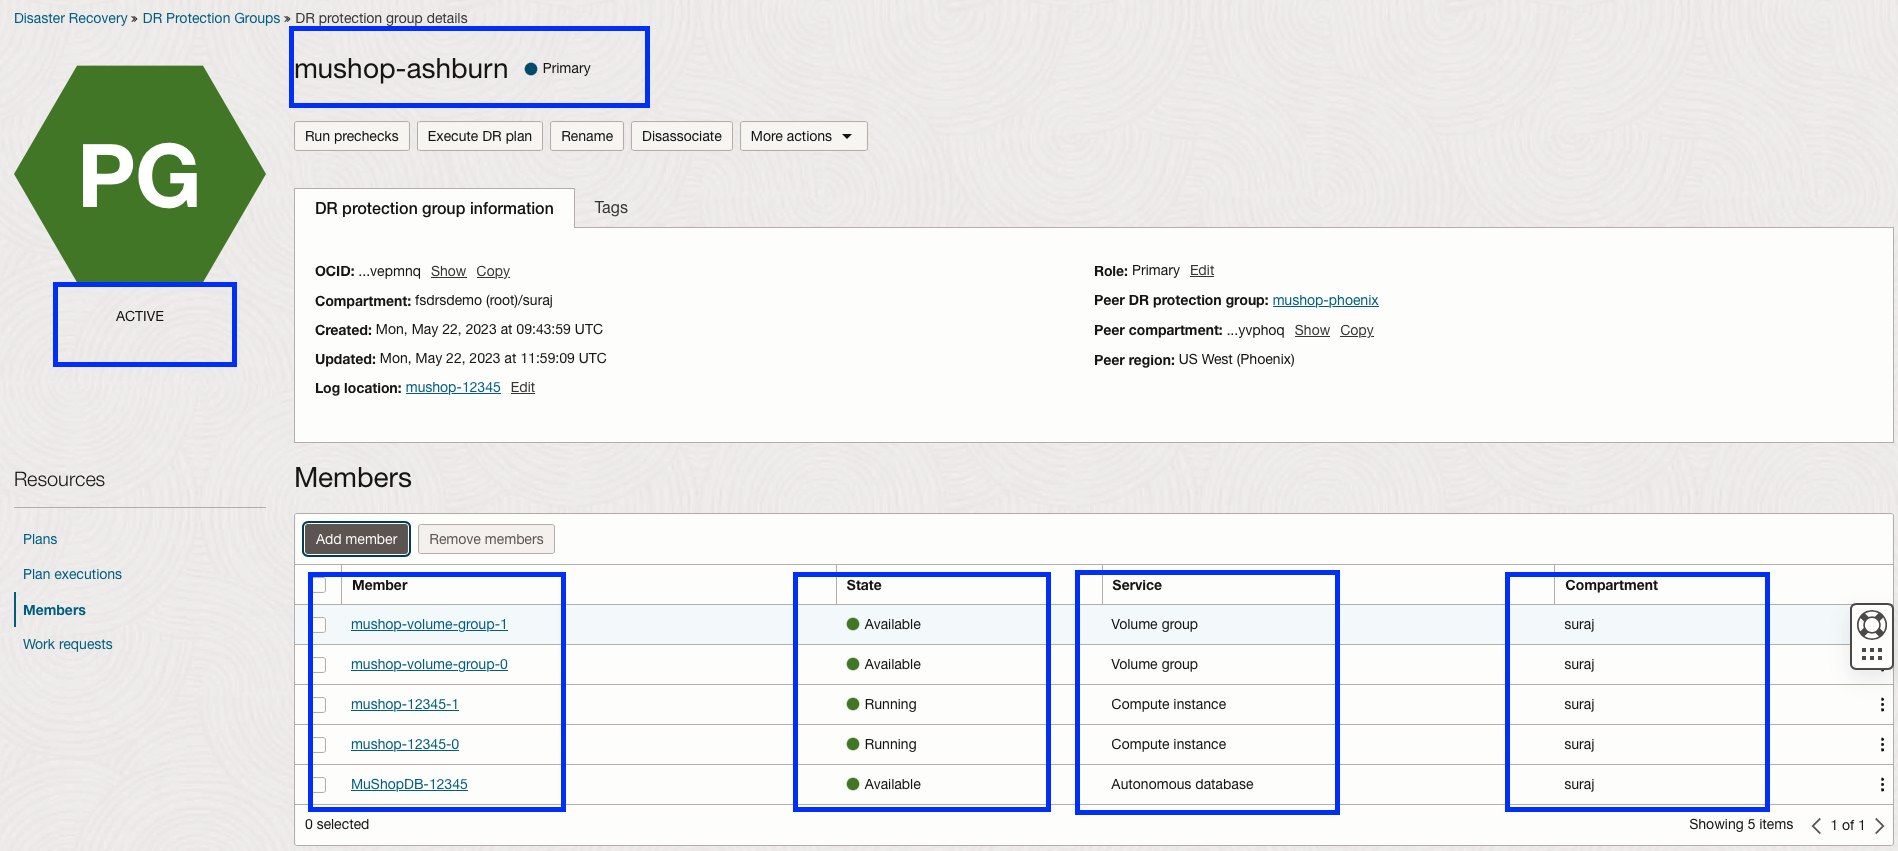
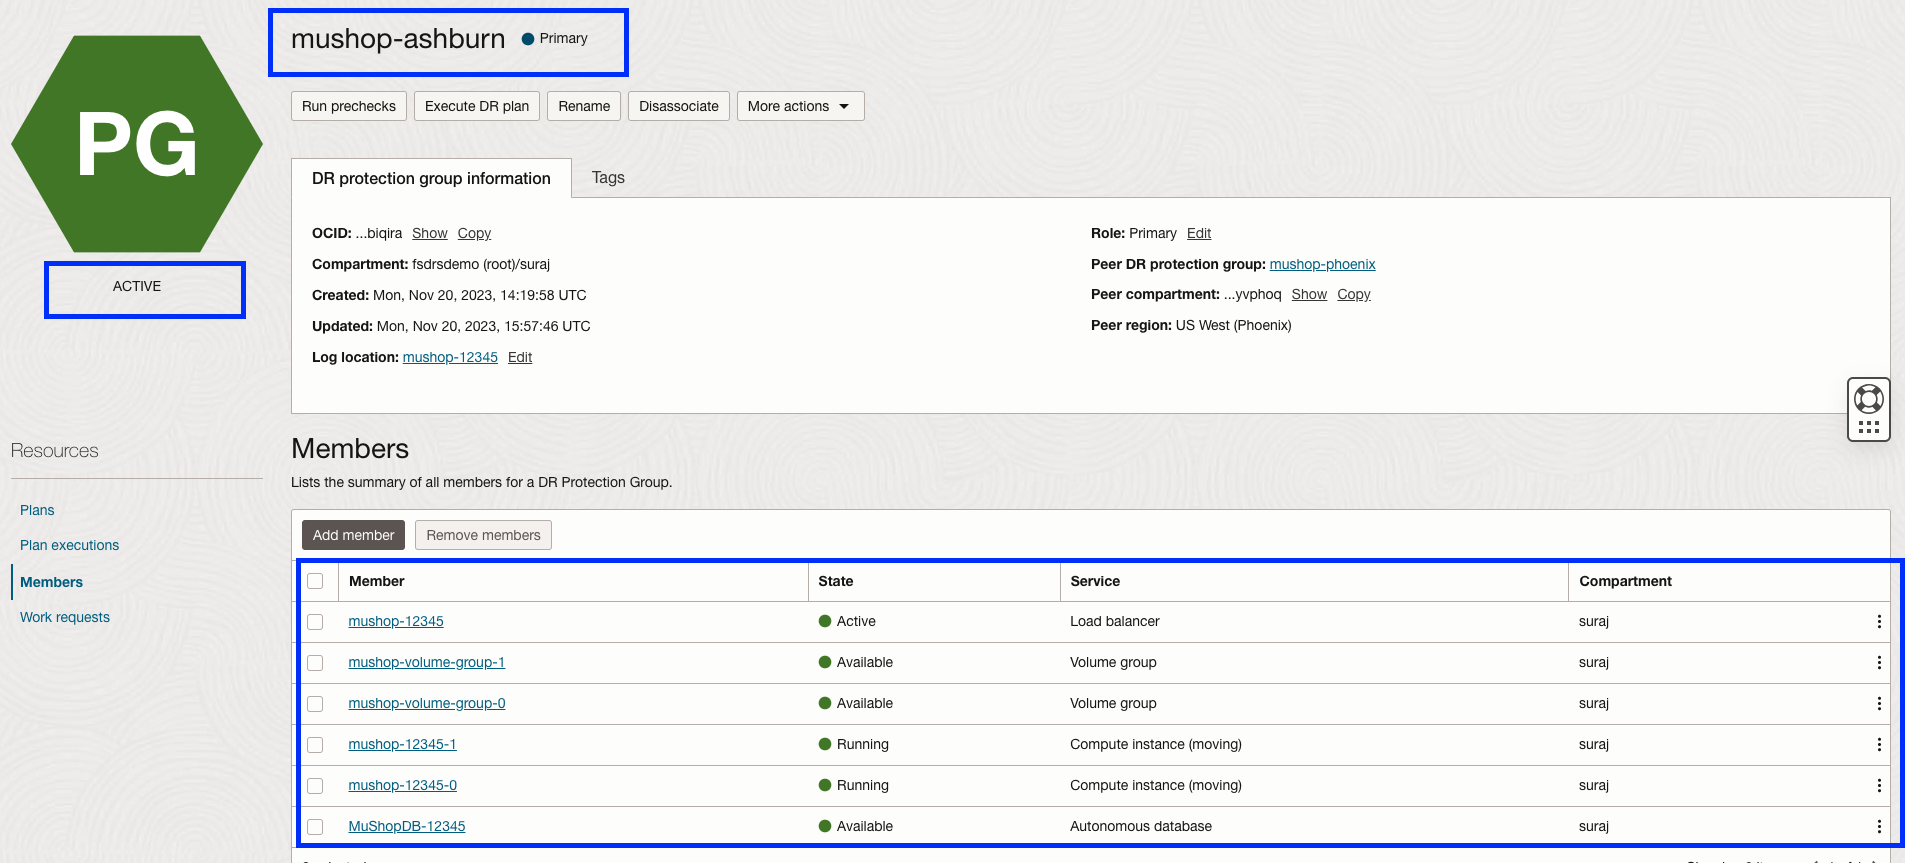
New features changes
New features changes

diff --git a/oci-fullstackdrs/drpg-members/drpg-members.md b/oci-fullstackdrs/drpg-members/drpg-members.md
@@ -8,8 +8,8 @@ Estimated Time: 15 Minutes
 
 ### Objectives
 
-- Add members to Ashburn DRPG (Primary)- ATP(Primary DB),MuShop Compute VM's(node-0 and node-1),two volume groups( Boot volumes of MuShop Compute VM's)
-- Add members to Phoenix DRPG (Standby)-ATP(Standby DB)
+- Add members to Ashburn DRPG (Primary)- ATP(Primary DB),MuShop Compute VM's(node-0 and node-1),two volume groups( Boot volumes of MuShop Compute VM's), Load Balancer
+- Add members to Phoenix DRPG (Standby)-ATP(Standby DB), Load Balancer
 
 As part of the MuShop architecture,Virtual machines are deployed as Cold VM or Pilot light pattern.Full Stack DR will create the MuShop VM's in the phoenix region during the Switchover.
 
@@ -27,7 +27,7 @@ As part of the MuShop architecture,Virtual machines are deployed as Cold VM or P
 
     ![drpg landing page](./images/drpg-status-ashburn-new.png)
 
-4.  In the Ashburn region DRPG page, add the members required in the **mushop-ashburn** DRPG. *We will add ATP Primary Database, two mushop compute VMs, and two-volume groups for the boot volumes of mushop compute VMs*. Let's add those details.
+4.  In the Ashburn region DRPG page, add the members required in the **mushop-ashburn** DRPG. *We will add ATP Primary Database, two mushop compute VMs,two-volume groups for the boot volumes of mushop compute VMs and Load Balancer*. Let's add those details.
 
 5.  Add ATP Primary Database. 
 
@@ -36,7 +36,7 @@ As part of the MuShop architecture,Virtual machines are deployed as Cold VM or P
     ![drpg add member](./images/ashburn-add-member-new.png)
 
     It will show various resource types and select **Autonomous Database**
-    ![drpg resource type](./images/ashburn-resource-type-new.png)
+    ![drpg resource type](./images/ashburn-resource-new-members.png)
 
     Select the Database in your compartment; it will have MushopDB-XXXXX. Verify it and hit add. Make sure to check the box **"I understand that all existing plans will be deleted"**
 
@@ -51,7 +51,7 @@ As part of the MuShop architecture,Virtual machines are deployed as Cold VM or P
 6.  Add first Compute instance **mushop-xxxxx-0** as member,select **mushop-ashburn** DRPG, navigate to **Members** in the *Resources* section, and hit **Add Member**
 
     It will show various resource types and select **Compute**
-    ![drpg resource type](./images/ashburn-resource-type-new1.png)
+    ![drpg resource type](./images/ashburn-resource-new-members.png)
 
     - Resource Type as **Compute**
     - Make sure to check the box **"I understand that all existing plans will be deleted"**
@@ -79,7 +79,7 @@ As part of the MuShop architecture,Virtual machines are deployed as Cold VM or P
 7.  Add second Compute instance **mushop-xxxxx-1** as member,select **mushop-ashburn** DRPG, navigate to **Members** in the *Resources* section, and hit **Add Member**
 
     It will show various resource types and select **Compute**
-    ![drpg resource type](./images/ashburn-resource-type-new1.png)
+    ![drpg resource type](./images/ashburn-resource-new-members.png)
 
     - Resource Type as **Compute**
     - Make sure to check the box **"I understand that all existing plans will be deleted"**
@@ -109,7 +109,7 @@ As part of the MuShop architecture,Virtual machines are deployed as Cold VM or P
     Select **mushop-ashburn** DRPG, navigate to **Members** in the *Resources* section, and hit **Add Member**
 
     It will show various resource types and select **Volume group**
-    ![drpg resource type](./images/ashburn-resource-type-new1.png)
+    ![drpg resource type](./images/ashburn-resource-new-members.png)
 
     - Resource Type as Volume Group
     - Make sure to check the box **"I understand that all existing plans will be deleted"**
@@ -129,7 +129,7 @@ As part of the MuShop architecture,Virtual machines are deployed as Cold VM or P
     Select **mushop-ashburn** DRPG, navigate to **Members** in the *Resources* section, and hit **Add Member**
 
     It will show various resource types and select **Volume group**
-    ![drpg resource type](./images/ashburn-resource-type-new1.png)
+    ![drpg resource type](./images/ashburn-resource-new-members.png)
 
     - Resource Type as Volume Group
     - Make sure to check the box **"I understand that all existing plans will be deleted"**
@@ -144,14 +144,35 @@ As part of the MuShop architecture,Virtual machines are deployed as Cold VM or P
 
     Navigate back to the DR Protection group page; the status of DRPG should be active.
 
-10. We have added all the required members in the **mushop-ashburn** DRPG. It should show ATP Database, 2 Compute Instances, and 2 Volume groups.DRPG status should show as active.
+10. Add Load Balancer as member.
+
+    It will show various resource types and select **Load Balancer**
+    ![drpg resource type](./images/ashburn-resource-new-members.png)
+     
+    - Resource Type as Load Balancer
+    - Make sure to check the box **"I understand that all existing plans will be deleted"**
+    - Select Load balancer **mushop-xxxxx**
+    - Select Destination load balancer **mushop-xxxxx**
+    - Select Source backend set **mushop-xxxxx**
+    - Select Destination backend set **mushop-xxxxx**
+    - Verify and add
+
+    ![drpg add lbr](./images/ashburn-lbr-add-new.png)
+
+    **mushop-ashburn** DRPG status will change to updating; wait for a few seconds. You should see that the Load Balancer is added as a member. Refresh the DRPG page if required. You can monitor the request's status in the **Work requests** section under Resources.
+
+    ![drpg lbr added](./images/ashburn-lbr-added-new.png)
+
+    Navigate back to the DR Protection group page; the status of DRPG should be active. In case if you don't see the Load Balancer member, add it again.
+
+10. We have added all the required members in the **mushop-ashburn** DRPG. It should show a ATP Database, two Compute Instances, two Volume groups and a Load Balancer.DRPG status should show as active.
 
     ![drpg members ashburn](./images/ashburn-allmembers-new.png)
 
 
 ## Task 2: Add members to Phoenix DRPG (Standby)
 
-1.  Login into OCI Console with your provided Credentials. The Standby region should be **Pheonix**.
+1.  Login into OCI Console with your provided Credentials. The Standby region should be **Phoenix**.
 
     ![oci console phoenix](./images/phoenix-region-new.png)
 
@@ -163,14 +184,14 @@ As part of the MuShop architecture,Virtual machines are deployed as Cold VM or P
 
     ![drpg landing page](./images/drpg-status-phoenix-new.png)
 
-4.  In the Phoenix region DRPG page, add the members required in the **mushop-phoenix** DRPG. *We will be adding only ATP Standby Database*. Let's add those details.  **We don't need to add compute and volume groups as we VM's are designed in cold VM DR pattern and those VM's will be created automatically during the DR switchover process by Full Stack DR**
+4.  In the Phoenix region DRPG page, add the members required in the **mushop-phoenix** DRPG. *We will be adding ATP Standby Database and Load Balancer*. Let's add those details.  **We don't need to add compute and volume groups as we VM's are designed in cold VM DR pattern and those VM's will be created automatically during the DR switchover process by Full Stack DR**
 
 6.  Add ATP Standby Database. Select **mushop-phoenix** DRPG, navigate to **Members** in the *Resources* section, and hit **Add Member**
 
     ![drpg add member](./images/phoenix-add-member-new.png)
 
     It will show various resource types and select **Autonomous Database**
-    ![drpg resource type](./images/phoenix-resource-type-new.png)
+    ![drpg resource type](./images/phoenix-resource-new-members.png)
 
     Select the Database in your compartment; it will have **MushopDB-XXXXX**. Verify it and hit add. Make sure to check the box **"I understand that all existing plans will be deleted"**
 
@@ -182,9 +203,30 @@ As part of the MuShop architecture,Virtual machines are deployed as Cold VM or P
 
     Navigate back to the DR Protection group page; the status of DRPG should be active.
 
-7.  Now, we have added all the required members in the **mushop-phoenix** DRPG. It should show ATP Database. DRPG status will show as active.
+7. Add Load Balancer as member.
 
-    ![drpg members phoenix](./images/phoenix-allmembers-new.png)
+    It will show various resource types and select **Load Balancer**
+    ![drpg resource type](./images/phoenix-resource-new-members.png)
+     
+    - Resource Type as Load Balancer
+    - Make sure to check the box **"I understand that all existing plans will be deleted"**
+    - Select Load balancer **mushop-xxxxx**
+    - Select Destination load balancer **mushop-xxxxx**
+    - Select Source backend set **mushop-xxxxx**
+    - Select Destination backend set **mushop-xxxxx**
+    - Verify and add
+
+    ![drpg add lbr](./images/phoenix-lbr-add-new.png)
+
+    **phoenix-ashburn** DRPG status will change to updating; wait for a few seconds. You should see that the Load Balancer is added as a member. Refresh the DRPG page if required. You can monitor the request's status in the **Work requests** section under Resources.
+
+    ![drpg lbr added](./images/phoenix-lbr-added-new.png)
+
+    Navigate back to the DR Protection group page; the status of DRPG should be active. In case if you don't see the Load Balancer member, add it again.
+
+8.  Now, we have added all the required members in the **mushop-phoenix** DRPG. It should show ATP Database and Load Balancer. DRPG status will show as active.
+
+    ![drpg members phoenix](./images/phoenix-allmembers-new1.png)
 
     You may now [Proceed to the next lab](#next)
 
@@ -195,4 +237,4 @@ As part of the MuShop architecture,Virtual machines are deployed as Cold VM or P
 ## Acknowledgements
 
 - **Author** - Suraj Ramesh, Principal Product Manager,Oracle Database High Availability (HA), Scalability and Maximum Availability Architecture (MAA)
-- **Last Updated By/Date** -  Suraj Ramesh,August 2023
+- **Last Updated By/Date** -  Suraj Ramesh,November 2023

diff --git a/oci-fullstackdrs/introduction/introduction.md b/oci-fullstackdrs/introduction/introduction.md
@@ -12,7 +12,7 @@ In this workshop, we will see how easily Full Stack Disaster Recovery will help 
 
 ## Overview of OCI Full Stack Disaster Recovery
 
-Full Stack Disaster Recovery Service is an fully managed OCI disaster recovery orchestration and management service that provides comprehensive disaster recovery capabilities for all layers of an application stack, including infrastructure, middleware, database, and application across  **OCI regions**.
+OCI Full Stack Disaster Recovery (Full Stack DR) provides a fully automated and comprehensive disaster recovery orchestration solution for all the layers of a full-stack cloud application, including infrastructure, database, and application. Using Full Stack DR, you can recover your full stack applications across OCI regions, or across availability domains within the same region.
 
 Throughout this workshop, we will use Full Stack DR to denote OCI Full Stack Disaster recovery.
 
@@ -25,7 +25,7 @@ Throughout this workshop, we will use Full Stack DR to denote OCI Full Stack Dis
 Below are some of the critical functionalities of Full Stack Disaster Recovery Service
 
 - Create and automate DR run books and make them more flexible.
-- Manage DR operations (Switchover and Failover) using a single pane of glass.
+- Manage DR operations (Switchover,Failover,DR Drills) using a single pane of glass.
 - Provide comprehensive logs with error management and recovery.
 - Perform pre-checks before the DR execution plan.
 - Provide a framework to customize DR operations.
@@ -83,4 +83,4 @@ The following is intended to outline our general product direction. It is intend
 ## Acknowledgements
 
 - **Author** - Suraj Ramesh,Principal Product Manager,Oracle Database High Availability (HA), Scalability and Maximum Availability Architecture (MAA)
-- **Last Updated By/Date** - Suraj Ramesh,May 2023
+- **Last Updated By/Date** - Suraj Ramesh,November 2023
